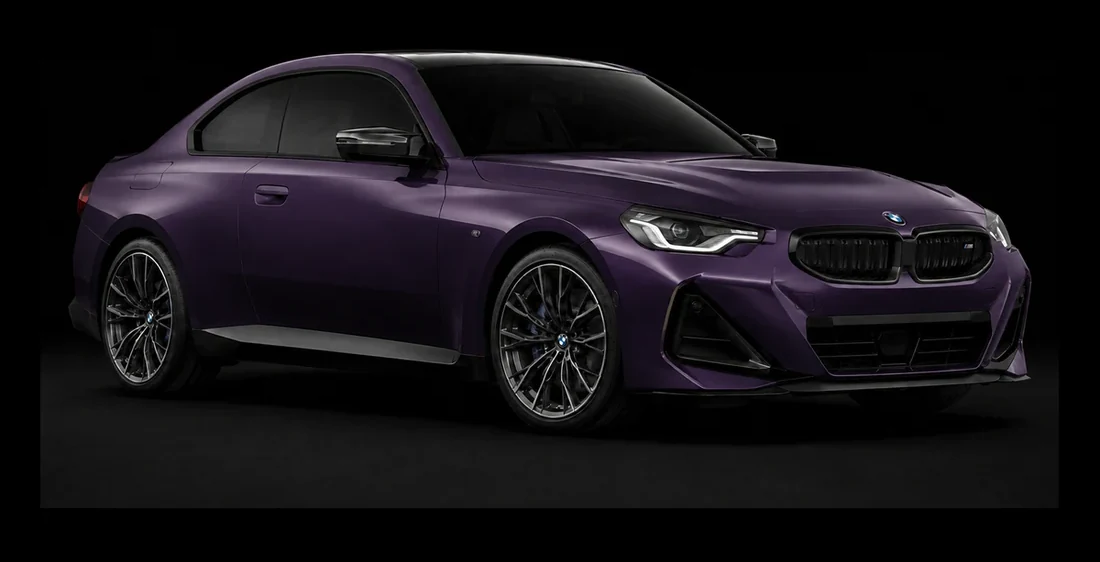
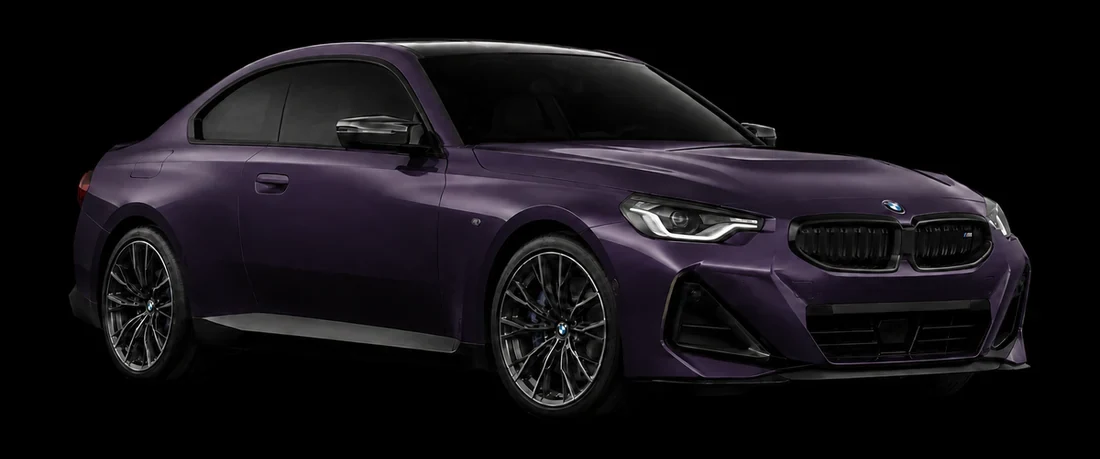
Garage: fotos 100% negras y los vecinos dejan de atravesar al auto central
DOS COSAS, y la segunda era un defecto visible.

1. LAS CUATRO FOTOS SE REEMPLAZAN otra vez. Las nuevas tienen el fondo
   realmente negro: percentil 99 = 1 sobre 255 y maximo 1, contra el 18
   a 26 de maximo que traian las anteriores. Eso era lo que dejaba ver
   el rectangulo de cada foto como una mancha mas clara sobre la pagina
   —se notaba en la captura del usuario— y ahora desaparece del todo.
   El Mach-E ademas cambio de verde a azul; se corrige el alt.

   Se borran de source/ las cuatro anteriores (05_30_XX), entran las
   nuevas (05_53_XX / 05_54_08).

2. LOS VECINOS SE VEIAN A TRAVES DEL AUTO DEL MEDIO. Con
   mix-blend-mode:screen dos autos superpuestos no se tapan: se SUMAN.
   Se veia la rueda del MINI atravesando la carroceria del Mercedes.

   La solucion no es sacar el screen —hace falta para que el rectangulo
   negro del vecino no tape nada— sino que los autos no se pisen. Para
   eso hay que saber donde termina el auto DENTRO de su foto, que no es
   el borde del archivo: medido sobre las cuatro, va de 0.062 a 0.936
   del ancho del lienzo.

   Con ese dato la posicion sale de una cuenta y no de probar numeros:
   el auto central al 54% deja su borde izquierdo en 26.3%; el vecino al
   44% de escala sobresale 10.4% de su centro, asi que en left:12.9% su
   trompa llega a 23.3% — tres puntos antes. Verificado midiendo los
   bordes reales del auto (no los del rectangulo) en el DOM: 76px de
[…]

Changed region(s): [[0.0618, 0.061, 0.9582, 0.915], [0.68, 0.854, 0.7418, 0.8845], [0.6491, 0.8845, 0.68, 0.915]]

diff --git a/public/index.html b/public/index.html
@@ -782,42 +782,57 @@ video::-webkit-media-controls{ display:none !important; }
    para contenerlo, y ni un pixel más. Cualquier exceso es banda negra
    entre el auto y el texto de abajo.
 
-   La cuenta: el auto central ocupa el 58% del ancho del escenario, así
-   que su alto es 0.58/1.96 = 0.296 de ese ancho. Con un respiro chico,
-   el escenario necesita ~0.34 → proporción ~2.9. */
+   La cuenta: las fotos miden 1100×459 (2.40), y el auto central ocupa
+   el 54% del ancho del escenario, así que su alto es 0.54/2.40 = 0.225
+   de ese ancho. Con un respiro arriba y abajo, el escenario necesita
+   ~0.29 → proporción ~3.4. */
 .gar-escena{
   position:relative;
   overflow:hidden;
   isolation:isolate;
-  aspect-ratio:2.9;
+  aspect-ratio:3.4;
   background:var(--void);
 }
 
-/* LOS VECINOS SE POSICIONAN CON `left`, NO CON `translateX(%)`.
+/* LOS VECINOS NO PUEDEN TOCAR AL AUTO CENTRAL. NUNCA.
 
-   No es lo mismo. El porcentaje de `left` en un elemento absoluto se
-   resuelve contra el ANCHO DEL CONTENEDOR (la escena) — es predecible.
-   El porcentaje dentro de `transform: translateX()` se resuelve contra
-   el ancho PROPIO del elemento, así que cambiar el `scale` de al lado
-   corre el resultado sin que nadie tocara el número. Con la versión
-   anterior (translateX de la propia caja) el vecino quedaba con más de
-   un 10% de su ancho por fuera de la escena — el borde justo del lado
-   de afuera, que es lo que se veía "cortado". Con `left` en % de la
-   escena el margen se calcula una sola vez y no se mueve más. */
+   Antes se superponían, y con mix-blend-mode:screen eso no se ve como
+   "uno tapa al otro" sino como TRANSPARENCIA: se veía la rueda del MINI
+   a través de la carrocería del Mercedes. El modo screen suma los dos
+   píxeles, así que dos autos encimados se ven los dos a la vez. En una
+   página que vende autos de lujo eso se lee como un error de armado.
+
+   La solución no es tocar el screen —que sigue haciendo falta para que
+   el rectángulo negro del vecino no tape nada— sino que los autos
+   simplemente NO SE PISEN. Y para eso hay que saber dónde termina cada
+   auto dentro de su foto, que no es el borde del archivo: medido sobre
+   las cuatro, el auto ocupa de 0.062 a 0.936 del ancho del lienzo.
+
+   De ahí sale todo lo demás. Con el auto central al 54% del escenario,
+   su borde izquierdo cae en 50 − (0.5−0.062)×54 = 26.3%. El vecino, al
+   44% de escala, sobresale 0.436×54×0.44 = 10.4% a la derecha de su
+   propio centro. Poniéndolo en left:12.9% su trompa llega a 23.3%, o
+   sea 3 puntos antes de que empiece el auto del medio. Y su cola queda
+   en 2.5%, adentro del escenario: entero y sin chocar.
+
+   LOS PORCENTAJES VAN EN `left` Y NO EN `translateX()`. El porcentaje
+   de `left` se resuelve contra el ancho del CONTENEDOR; el de
+   translateX, contra el ancho PROPIO del elemento — así que tocar el
+   scale movía el resultado sin que nadie cambiara el número. */
 .gar-auto{
   position:absolute;
   top:50%;
   left:50%;
-  width:58%;
+  width:54%;
   mix-blend-mode:screen;
   opacity:0;
-  transform:translate(-50%,-50%) scale(.55);
+  transform:translate(-50%,-50%) scale(.5);
   transition:left .72s var(--ease), transform .72s var(--ease), opacity .72s var(--ease);
   will-change:left, transform, opacity;
   pointer-events:none;
 }
 
-/* El del medio. Es el único a tamaño y brillo plenos. */
+/* El del medio. Es el único a tamaño y brillo plenos, y prevalece. */
 .gar-auto.es-actual{
   left:50%;
   opacity:1;
@@ -825,21 +840,14 @@ video::-webkit-media-controls{ display:none !important; }
   z-index:3;
 }
 
-/* Los vecinos. Achicados y apagados. El 20%/80% no es un número lindo:
-   es margen(2%) + mitad del ancho ya achicado (58%×0.62÷2 ≈ 18%), así
-   que el borde de AFUERA del vecino queda justo dentro de la escena, no
-   cortado. El de ADENTRO sí se mete bajo el auto central —a propósito:
-   ahí gana el del medio, que tiene z-index más alto, y se lee como que
-   los tres están en la misma escena y no pegoteados uno al lado del
-   otro. */
 .gar-auto.es-previo,
 .gar-auto.es-siguiente{
   opacity:.34;
   z-index:2;
-  transform:translate(-50%,-50%) scale(.62);
+  transform:translate(-50%,-50%) scale(.44);
 }
-.gar-auto.es-previo   { left:20%; }
-.gar-auto.es-siguiente{ left:80%; }
+.gar-auto.es-previo   { left:12.9%; }
+.gar-auto.es-siguiente{ left:87.1%; }
 
 /* El <picture> es inline por defecto y dejaría una línea base debajo de
    la foto, o sea unos píxeles de aire fantasma justo donde estamos
@@ -944,15 +952,20 @@ video::-webkit-media-controls{ display:none !important; }
    nueva escala (.58): 2% + 76%×0.58÷2 ≈ 24%, o sea left 24%/76%. Misma
    cuenta que en escritorio, otros números porque el auto central ocupa
    más proporción de la escena acá. */
+/* En pantalla angosta la misma cuenta da otros números. Con 324 px de
+   escenario, tres autos que no se tocan obligan a que cada uno sea más
+   chico —es aritmética, no una decisión de diseño: el ancho del auto
+   central por (1 + 2×escala) tiene que entrar en el ancho disponible—.
+   Se le da al del medio un poco más de escenario (62%) y a los vecinos
+   bastante menos (37%), que es el reparto que deja el hueco más grande
+   sin que los de los costados se vuelvan una mancha. */
 @media (max-width:820px){
-  /* Misma cuenta con el auto al 76%: 0.76/1.96 = 0.388, más respiro
-     → proporción ~2.25. */
-  .gar-escena{ aspect-ratio:2.25; }
-  .gar-auto{ width:76%; }
+  .gar-escena{ aspect-ratio:3.2; }
+  .gar-auto{ width:62%; }
   .gar-auto.es-previo,
-  .gar-auto.es-siguiente{ transform:translate(-50%,-50%) scale(.58); }
-  .gar-auto.es-previo   { left:24%; }
-  .gar-auto.es-siguiente{ left:76%; }
+  .gar-auto.es-siguiente{ transform:translate(-50%,-50%) scale(.37); }
+  .gar-auto.es-previo   { left:11.4%; }
+  .gar-auto.es-siguiente{ left:88.6%; }
   .gar-flecha{ width:2.2rem; height:2.2rem; }
   .gar-texto{ min-height:9.5rem; }
 }
@@ -2871,28 +2884,28 @@ body.is-dark.is-scrolled #topbar{
         <picture>
           <source media="(max-width:767px)" srcset="assets/grupos/alta-gama@sm.webp">
           <img src="assets/grupos/alta-gama.webp" alt="Mercedes-AMG GLE 63 Coupé blanco"
-               loading="lazy" decoding="async" width="1100" height="562">
+               loading="lazy" decoding="async" width="1100" height="459">
         </picture>
       </div>
       <div class="gar-auto">
         <picture>
           <source media="(max-width:767px)" srcset="assets/grupos/deportivos@sm.webp">
           <img src="assets/grupos/deportivos.webp" alt="BMW M240i violeta"
-               loading="lazy" decoding="async" width="1100" height="562">
+               loading="lazy" decoding="async" width="1100" height="459">
         </picture>
       </div>
       <div class="gar-auto">
         <picture>
           <source media="(max-width:767px)" srcset="assets/grupos/evolution@sm.webp">
-          <img src="assets/grupos/evolution.webp" alt="Ford Mustang Mach-E verde"
-               loading="lazy" decoding="async" width="1100" height="562">
+          <img src="assets/grupos/evolution.webp" alt="Ford Mustang Mach-E azul"
+               loading="lazy" decoding="async" width="1100" height="459">
         </picture>
       </div>
       <div class="gar-auto">
         <picture>
           <source media="(max-width:767px)" srcset="assets/grupos/urbanos@sm.webp">
           <img src="assets/grupos/urbanos.webp" alt="MINI Cooper S rojo"
-               loading="lazy" decoding="async" width="1100" height="562">
+               loading="lazy" decoding="async" width="1100" height="459">
         </picture>
       </div>
     </div>
